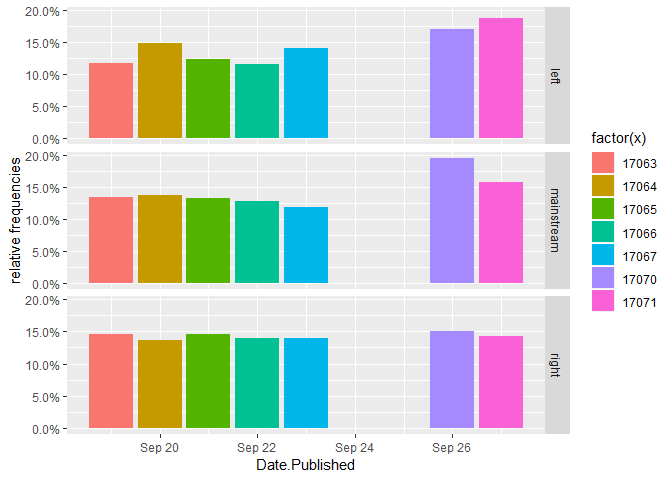
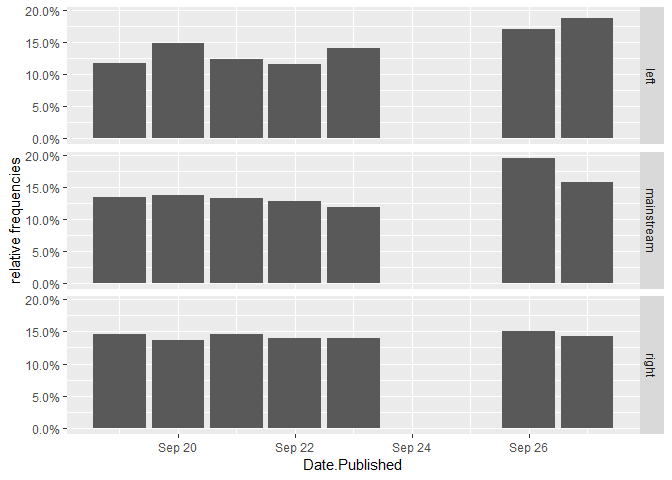
links included

diff --git a/facebook_factcheck.md b/facebook_factcheck.md
@@ -9,7 +9,7 @@ The social media world is becoming more and more polarized. One of the early gli
 
 • “No Factual Content: This rating is used for posts that are pure opinion, comics, satire, or any other posts that do not make a factual claim. This is also the category to use for posts that are of the “Like this if you think...” variety.
 
-All nine pages have earned the verified blue checkmark from Facebook. The additional data gathered was Facebook engagement numbers (shares, comments, and reactions). Each posts was noted whether it was a link, photo, video, or text. There were NAs within the Facebook engagement numbers that I replaced with the median of each category. The engagement numbers had some extreme outliers, so the use of the mean did not seem to be the proper method for replacing the NAs.
+All nine pages have earned the verified blue checkmark from Facebook. The additional data gathered was Facebook engagement numbers (shares, comments, and reactions). Each posts was noted whether it was a link, photo, video, or text The data comes from Kaggle( <https://www.kaggle.com/mrisdal/fact-checking-facebook-politics-pages>.) It was submitted by a journalists from the news site Buzzfeed News and the original story was ( “Hyperpartisan Facebook Pages Are Publishing False And Misleading Information At An Alarming Rate” ) The data was not very messy. I did have to rename some features. Account id, post id, and the post url were integers that were changed to character strings. Date Published was a factor that was changed to a date. There were a few NAs that had to be changed in the columns share count, reaction count, and the comment count. The NAs were changed to the median instead of the mean, because the outliers of all of these columns caused each of them to be heavily skewed to the right.
 
 ``` r
 library(dplyr)
@@ -150,7 +150,7 @@ Total_count<- (fb$share_count+ fb$reaction_count+fb$comment_count)
 
 ggplot(fb,aes(x=Rating,y= reaction_count,color= Category))+
   geom_boxplot(coef=3, fun = median)+
-  coord_flip()
+  coord_cartesian(ylim=c(0,50000))
 ```
 
     ## Warning: Ignoring unknown parameters: fun
@@ -158,11 +158,31 @@ ggplot(fb,aes(x=Rating,y= reaction_count,color= Category))+
 ![](facebook_factcheck_files/figure-markdown_github/unnamed-chunk-2-2.png)
 
 ``` r
+ggplot(fb,aes(x=Rating,y= share_count,color= Category))+
+  geom_boxplot(coef=3, fun = median)+
+  coord_cartesian(ylim=c(0,50000))
+```
+
+    ## Warning: Ignoring unknown parameters: fun
+
+![](facebook_factcheck_files/figure-markdown_github/unnamed-chunk-2-3.png)
+
+``` r
+ggplot(fb,aes(x=Rating,y= comment_count,color= Category))+
+  geom_boxplot(coef=3, fun = median)+
+  coord_cartesian(ylim=c(0,50000))
+```
+
+    ## Warning: Ignoring unknown parameters: fun
+
+![](facebook_factcheck_files/figure-markdown_github/unnamed-chunk-2-4.png)
+
+``` r
 ggplot(fb, aes(x=Date.Published, y= Total_count))+
   geom_point()
 ```
 
-![](facebook_factcheck_files/figure-markdown_github/unnamed-chunk-2-3.png)
+![](facebook_factcheck_files/figure-markdown_github/unnamed-chunk-2-5.png)
 
 ``` r
 summary(fb)
@@ -267,7 +287,7 @@ ggplot(fb,aes(x=Rating, group=Category))+
 
 ``` r
 ggplot(fb, aes(Date.Published, group = Category)) + 
-          geom_bar(aes(y = ..prop.., fill = factor(..x..)), stat="count") + 
+          geom_bar(aes(y = ..prop..), stat="count") + 
           scale_y_continuous(labels=scales::percent) +
           ylab("relative frequencies") +
           facet_grid(Category~.)
@@ -277,8 +297,13 @@ ggplot(fb, aes(Date.Published, group = Category)) +
 
 ``` r
 ggplot(fb)+
-  geom_point(mapping = aes(x= reaction_count,y= Total_count,color= Rating))
+  geom_point(mapping = aes(x= reaction_count,y= Total_count))+
+  facet_grid(.~Rating)+
+  xlim(0,50000)+
+  ylim(0,50000)
 ```
+
+    ## Warning: Removed 128 rows containing missing values (geom_point).
 
 ![](facebook_factcheck_files/figure-markdown_github/unnamed-chunk-4-3.png)
 
